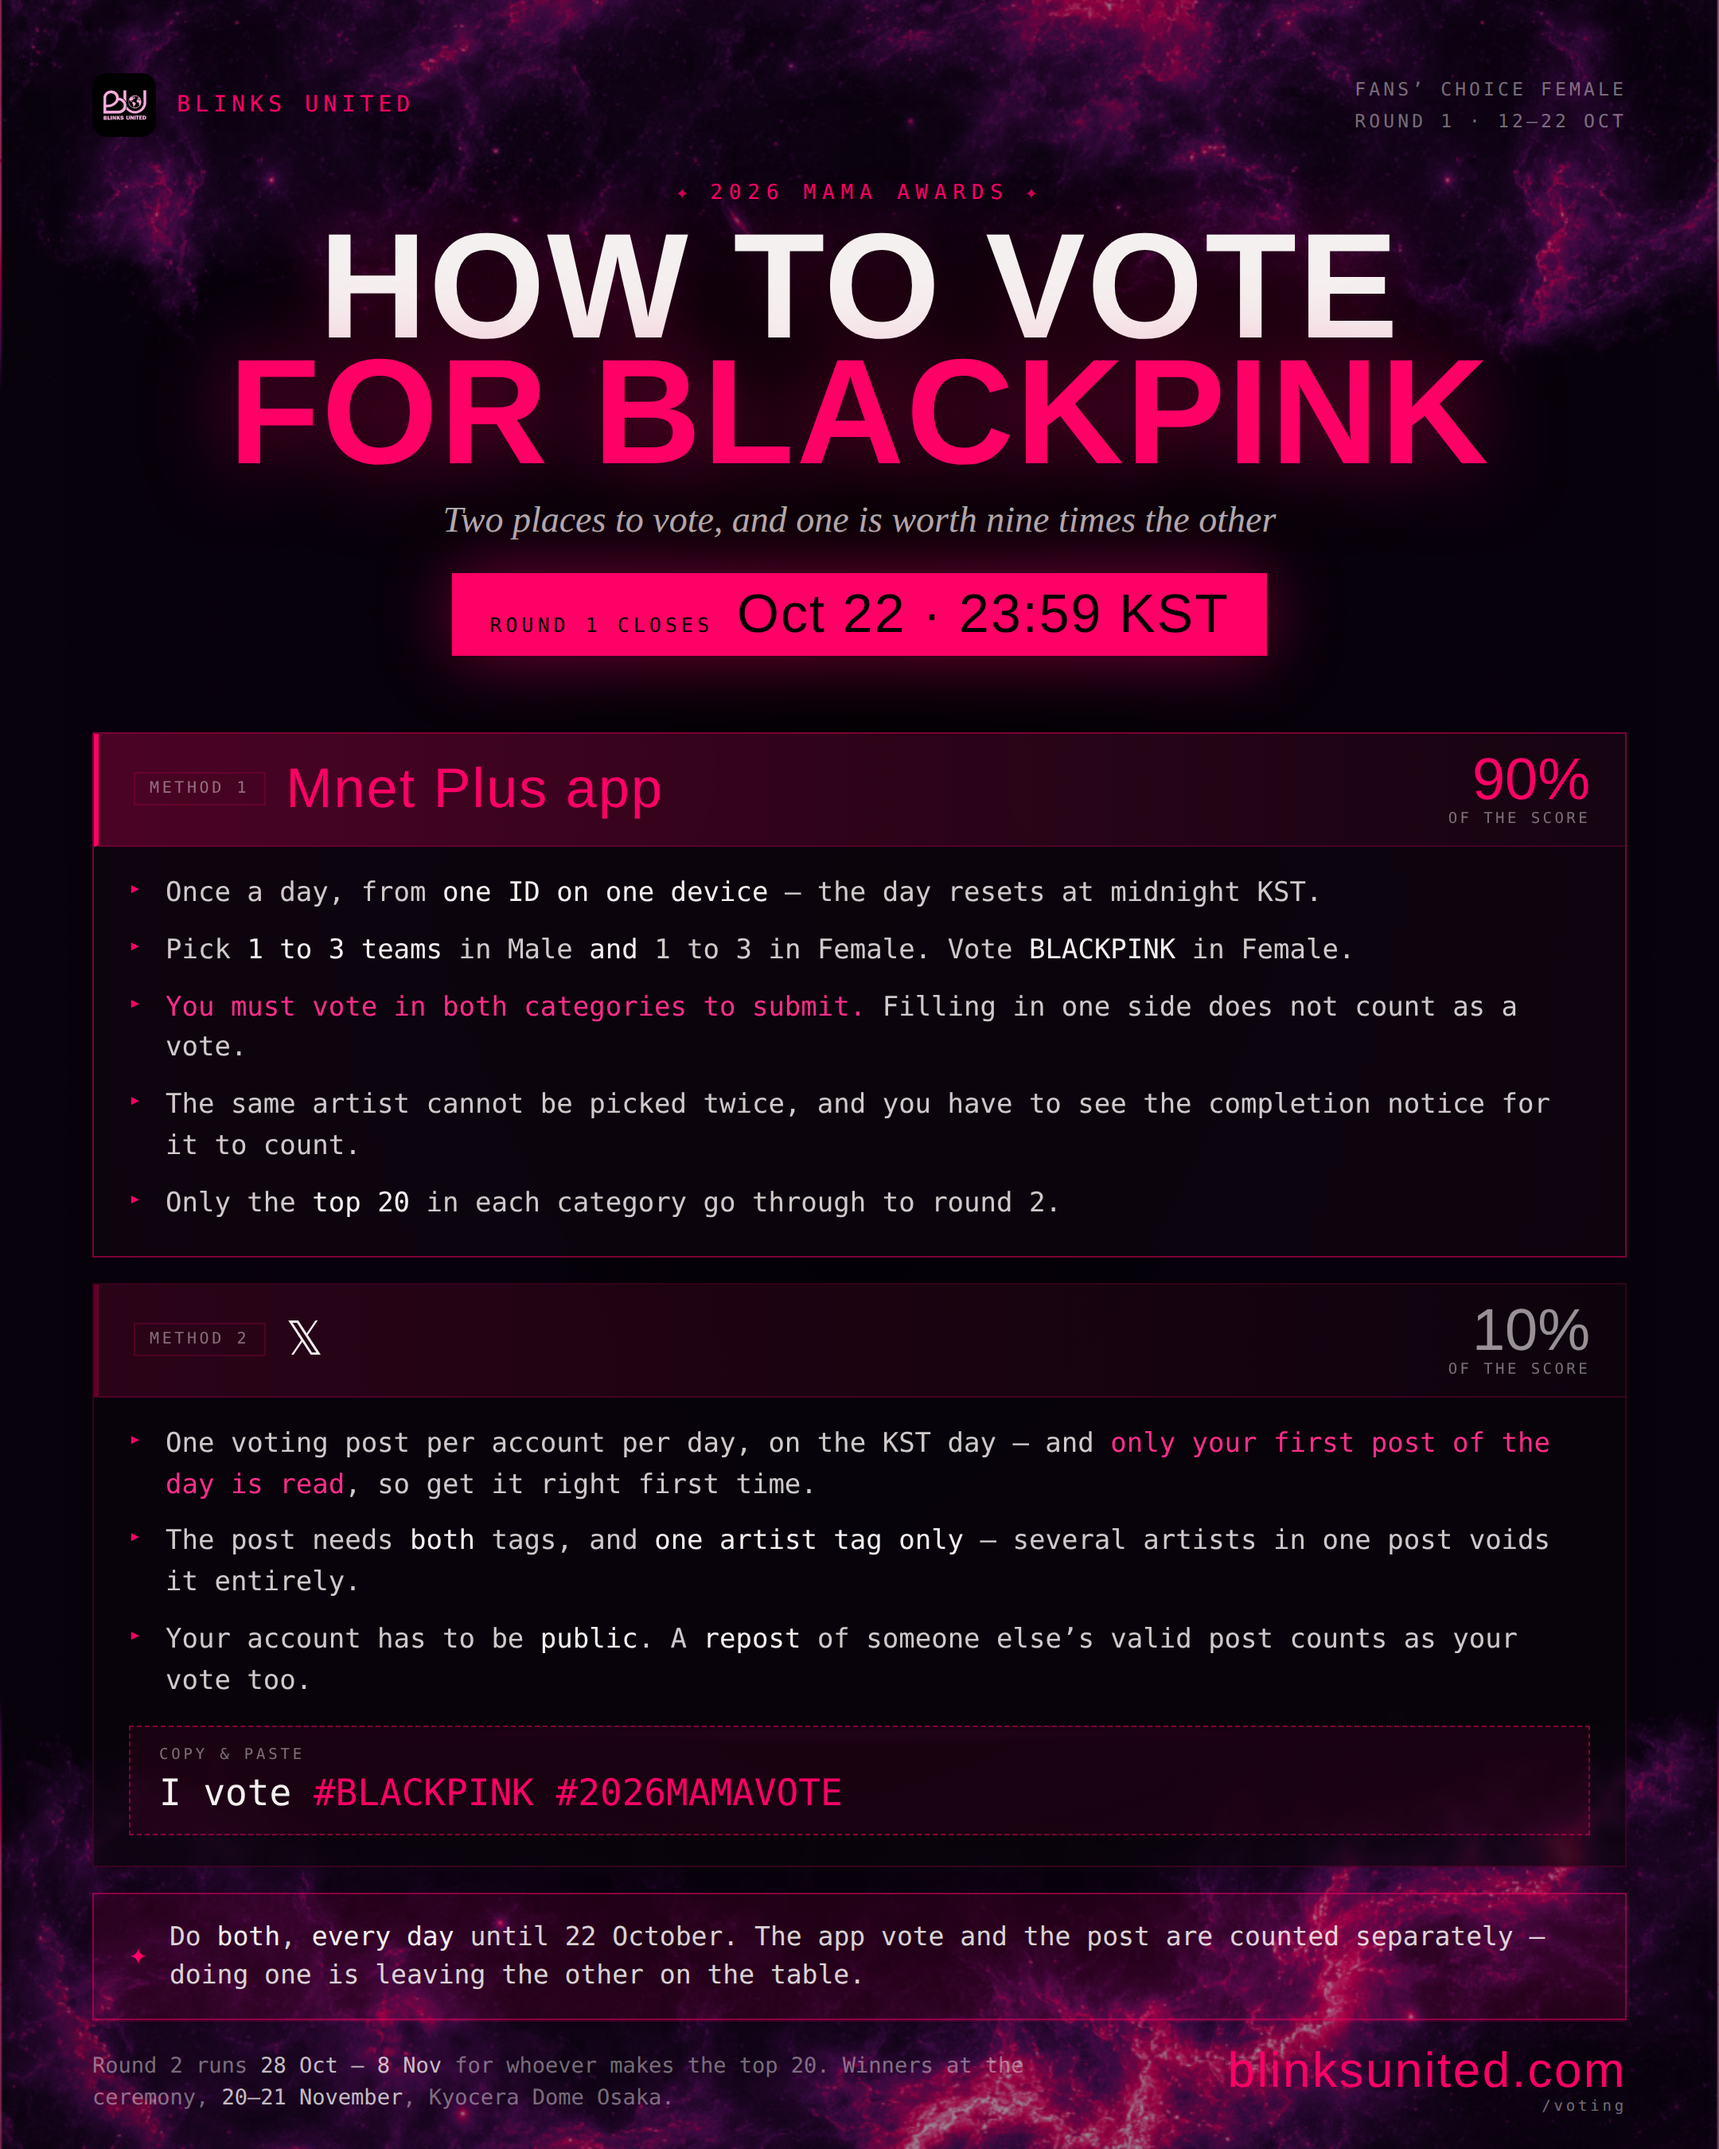
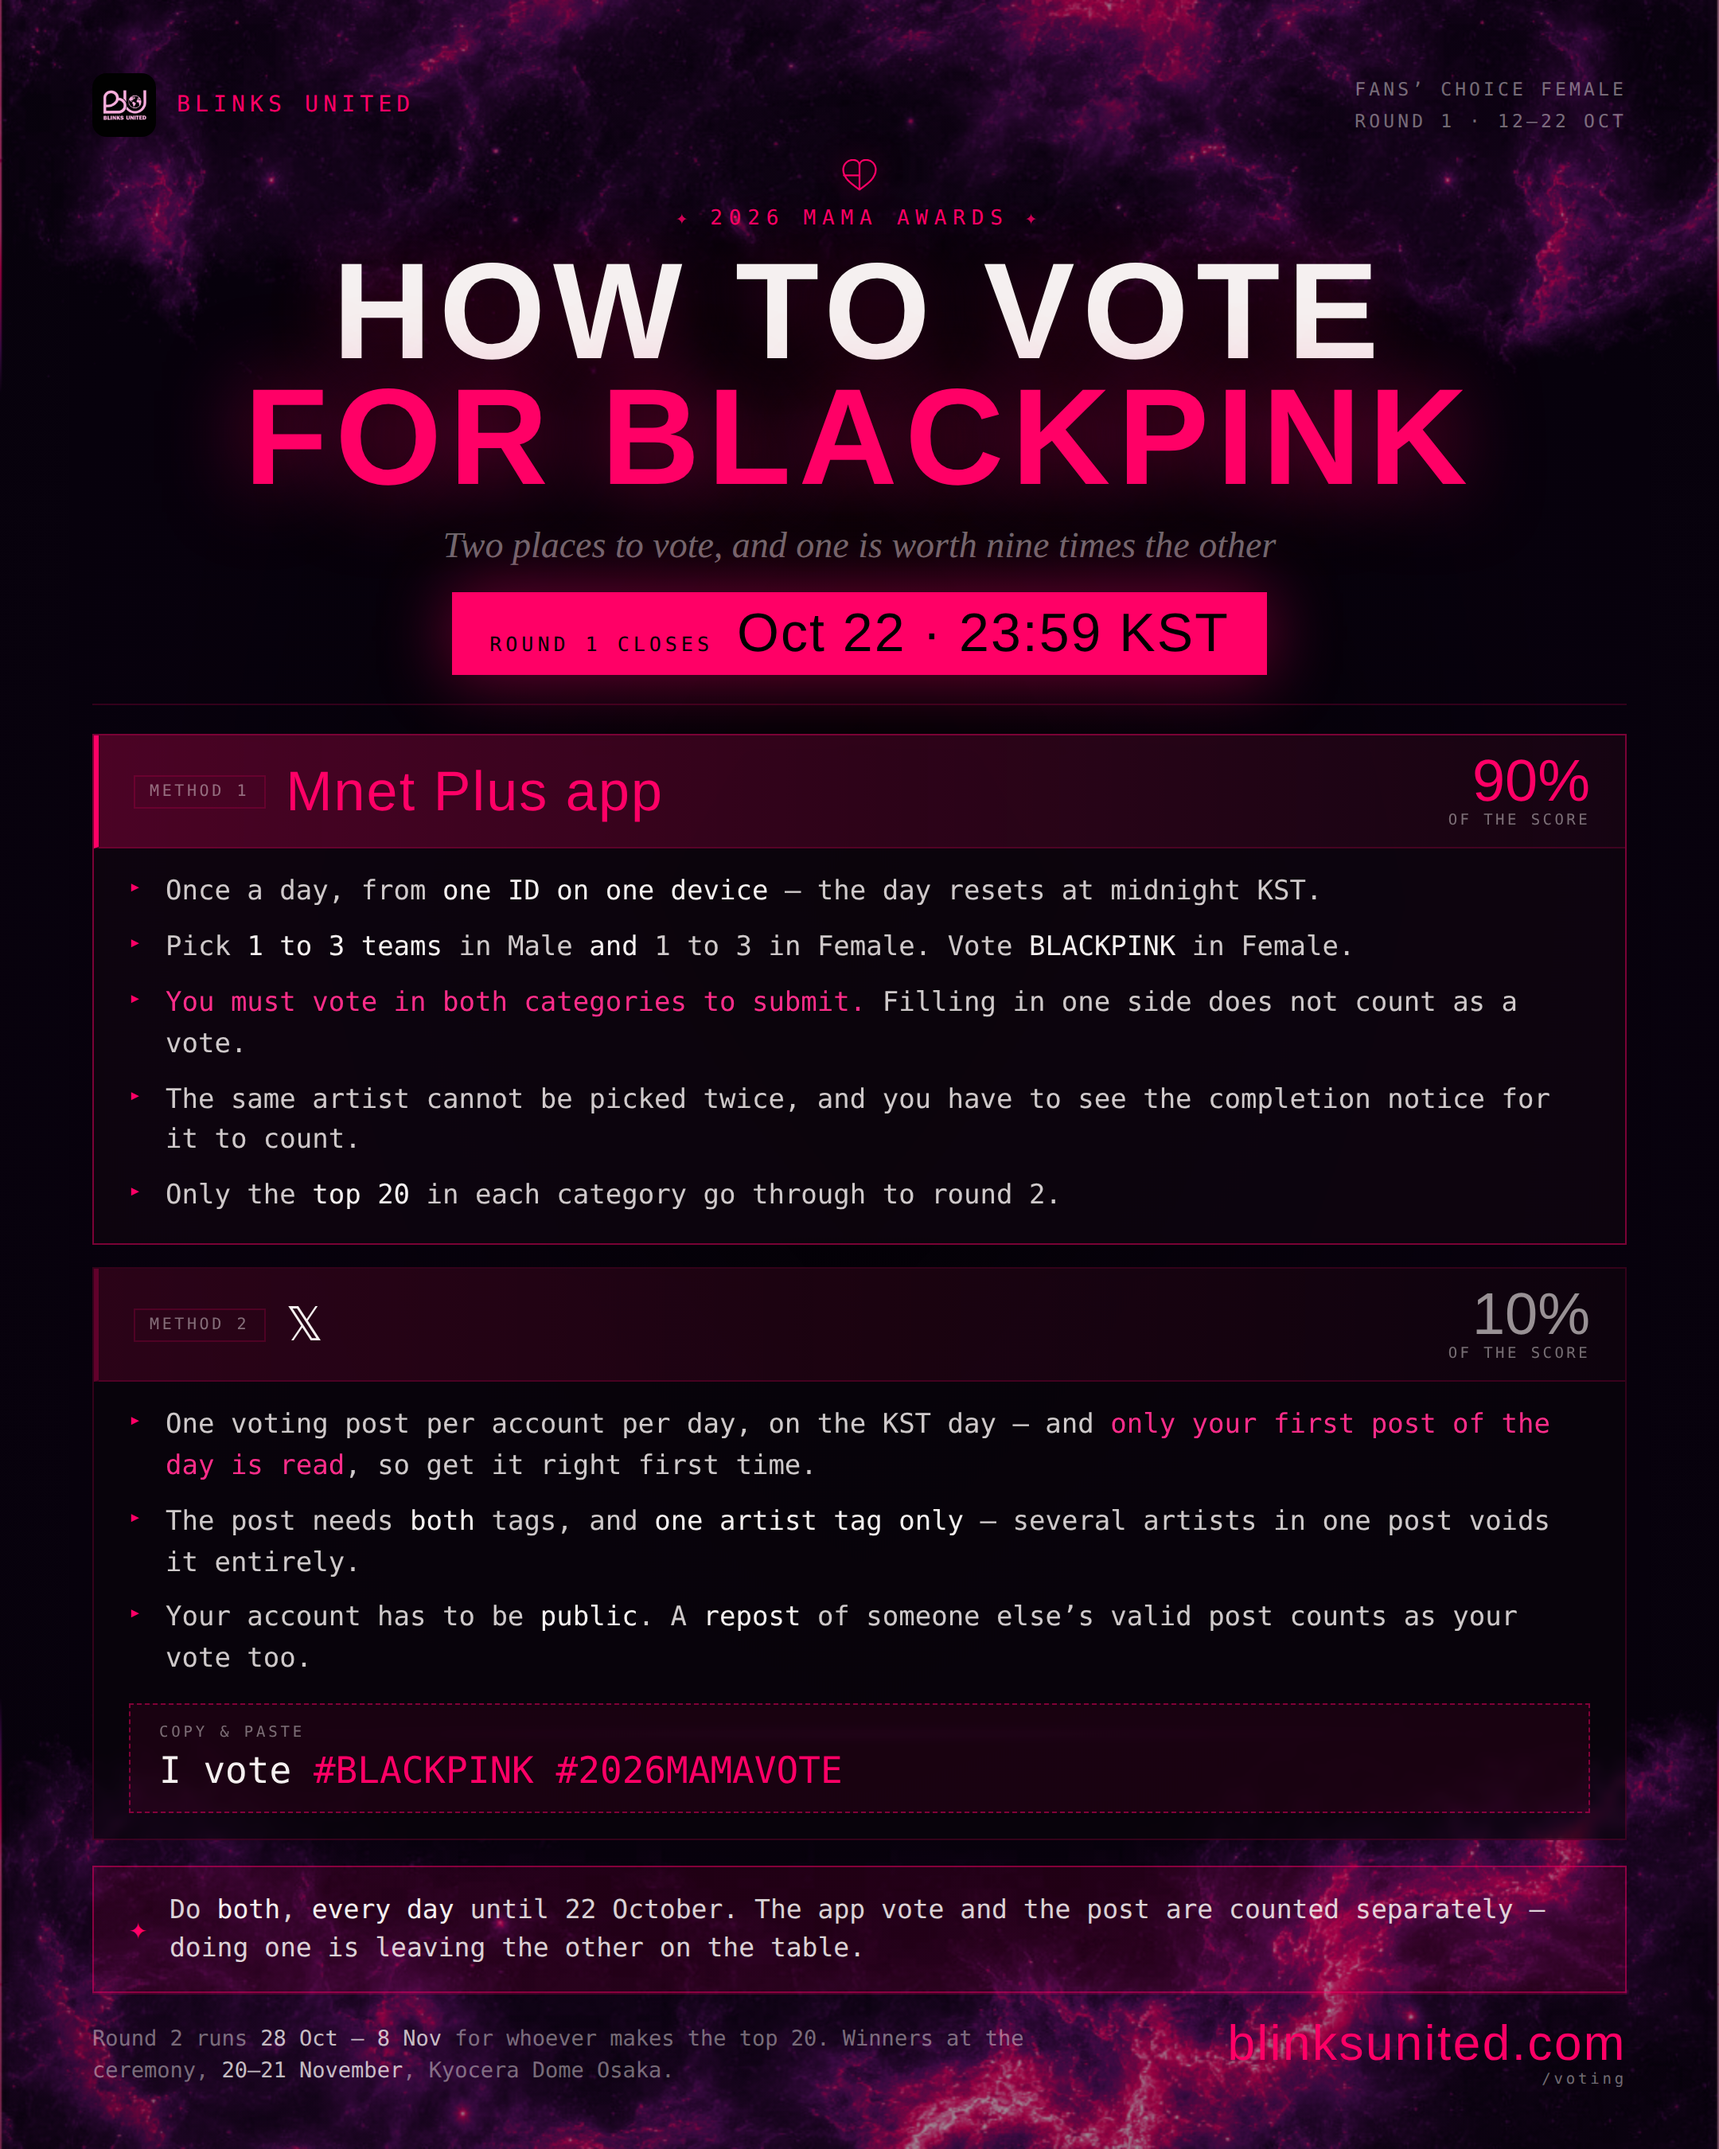
mama guide: the hero is the site's hero, measured not approximated
/streams (.as-title/.as-sub) and /leaderboard (.lb-header-title/.lb-header-sub)
share one recipe and the poster was supposed to be a third copy of it. Read off
the pages rather than eyeballed, two things were wrong:

The headline shipped at 0.012em tracking against the site's 0.05em. Same face,
and still not the site's Bebas — at near-zero spacing it reads as a different
typeface entirely, which is why it looked almost right and never quite.

The subtitle was Bodoni Moda. That IS one of the site's serifs, which is what
made it plausible, but the hero line on both pages is Cormorant Garamond
(--light-serif) at --muted; Bodoni is the display-numeral face. Now swapped,
and Bodoni is no longer loaded at all.

Also brought over: the pink heart gem that sits above the eyebrow on /streams,
and the flat 1px hairline that closes both headers, in place of the gradient
rule I had invented.

Pinned by tests that read the values out of index.html instead of restating
them, so the poster cannot drift from the pages again.

One of those tests failed on my own comment explaining why Bodoni was wrong —
the same over-broad match that bit the i18n.js check earlier in this file. It
now looks for a font-family declaration and a webfont request. The stale
comment it turned up is corrected too.

Claude-Session: https://claude.ai/code/session_01HPbAAWRiDyNszfqpAtqo9o

diff --git a/mama-guide.html b/mama-guide.html
@@ -19,7 +19,7 @@
      STYLE: the galaxy is MAMA's, the colours and the furniture are the site's.
      The hero follows /streams and /leaderboard exactly — a centred mono eyebrow
      between ✦ marks, a two-line Bebas headline with the second line in pink, an
-     italic Bodoni subtitle, then a rule — and the method cards echo the
+     italic Cormorant Garamond subtitle, then a hairline rule — and the cards echo the
      leaderboard's section bars: a pink-tinted strip with a solid pink edge.
      Nothing here invents a look the site does not already have.
 
@@ -34,7 +34,7 @@
 
 <link rel="preconnect" href="https://fonts.googleapis.com">
 <link rel="preconnect" href="https://fonts.gstatic.com" crossorigin>
-<link href="https://fonts.googleapis.com/css2?family=Bebas+Neue&family=Bodoni+Moda:ital,wght@0,400;0,700;0,900;1,400&family=DM+Mono:wght@300;400;500&display=swap" rel="stylesheet">
+<link href="https://fonts.googleapis.com/css2?family=Bebas+Neue&family=Cormorant+Garamond:ital,wght@0,300;0,600;0,700;1,300&family=DM+Mono:wght@300;400;500&display=swap" rel="stylesheet">
 
 <style>
   :root {
@@ -45,7 +45,7 @@
     --border: rgba(255,0,102,0.18);
     --mono: 'DM Mono', monospace;
     --display: 'Bebas Neue', sans-serif;
-    --serif: 'Bodoni Moda', serif;
+    --light-serif: 'Cormorant Garamond', serif;
   }
   *, *::before, *::after { margin: 0; padding: 0; box-sizing: border-box; }
   body {
@@ -101,27 +101,38 @@
   }
 
   /* ── hero, straight off /streams and /leaderboard ───────────────────────── */
-  .hero { text-align: center; margin-top: 28px; }
+  .hero { text-align: center; margin-top: 14px; }
+  .gem {
+    width: 24px; height: 20px; color: var(--pink); margin: 0 auto 10px;
+    display: block; filter: drop-shadow(0 0 8px rgba(255,0,102,0.5));
+  }
   .eyebrow {
     font-family: var(--mono); font-size: 13px; letter-spacing: 0.3em;
     text-transform: uppercase; color: var(--pink); margin-bottom: 12px;
   }
   .eyebrow i { font-style: normal; opacity: 0.8; margin: 0 10px; }
+  /* .lb-header-title / .as-title: the display face at 0.055em tracking on a
+     0.92 line, second line in pink via a span. The tracking is the tell — at
+     the near-zero spacing this had before, it was Bebas but it was not the
+     site's Bebas. */
   h1 {
-    font-family: var(--display); font-size: 94px; line-height: 0.84;
-    letter-spacing: 0.012em; text-transform: uppercase; color: var(--white);
+    font-family: var(--display); font-size: 86px; line-height: 0.92;
+    letter-spacing: 0.055em; text-transform: uppercase; color: var(--white);
     text-shadow: 0 0 44px rgba(255,0,102,0.3);
   }
   h1 em { display: block; font-style: normal; color: var(--pink); text-shadow: 0 0 52px rgba(255,0,102,0.55); }
+  /* .lb-header-sub / .as-sub: Cormorant Garamond italic at --muted. It was
+     Bodoni Moda here, which is the site's OTHER serif — used for display
+     numerals, never for this line. Wrong face, right idea. */
   .sub {
-    margin-top: 15px; font-family: var(--serif); font-style: italic;
-    font-size: 23px; color: rgba(245,240,240,0.72);
+    margin-top: 15px; font-family: var(--light-serif); font-style: italic;
+    font-size: 23px; color: var(--muted);
   }
 
   /* The deadline is the most time-critical fact on the poster, so it is the one
      solid pink block — nothing else competes with it. */
   .deadline {
-    margin: 20px auto 0; display: inline-flex; align-items: baseline; gap: 15px;
+    margin: 16px auto 0; display: inline-flex; align-items: baseline; gap: 15px;
     background: var(--pink); color: #000; padding: 11px 24px 10px;
     box-shadow: 0 0 46px rgba(255,0,102,0.45);
   }
@@ -131,13 +142,11 @@
   }
   .deadline span { font-family: var(--display); font-size: 34px; line-height: 0.9; letter-spacing: 0.03em; }
 
-  .rule {
-    margin: 24px 0 0; height: 1px; border: 0;
-    background: linear-gradient(90deg, transparent, rgba(255,0,102,0.45), transparent);
-  }
+  /* .lb-header / .as-header close with a flat hairline, not a gradient. */
+  .rule { margin: 18px 0 0; height: 0; border: 0; border-top: 1px solid var(--border); }
 
   /* ── the two methods ────────────────────────────────────────────────────── */
-  .methods { margin-top: 24px; display: grid; gap: 16px; }
+  .methods { margin-top: 18px; display: grid; gap: 14px; }
   /* Translucent over the galaxy rather than a flat panel: the sky has to carry
      through, or this is the site's hero with a picture parked behind it. */
   .method {
@@ -170,8 +179,8 @@
     display: block; font-family: var(--mono); font-size: 9.5px;
     letter-spacing: 0.18em; text-transform: uppercase; color: var(--muted); margin-top: 2px;
   }
-  .method-body { padding: 17px 22px 19px; }
-  .method ul { list-style: none; display: grid; gap: 10px; }
+  .method-body { padding: 15px 22px 16px; }
+  .method ul { list-style: none; display: grid; gap: 9px; }
   .method li {
     font-size: 17px; line-height: 1.52; color: rgba(245,240,240,0.84);
     padding-left: 23px; position: relative;
@@ -231,6 +240,7 @@
   </div>
 
   <div class="hero">
+    <svg class="gem" viewBox="-1 -1 52 45" fill="none" stroke="currentColor" stroke-width="2.5" stroke-linecap="round" stroke-linejoin="round" aria-hidden="true"><path d="M25,8 C25,3 21,0 16,0 C8,0 2,6 2,14 C2,26 14,34 25,42 C36,34 48,26 48,14 C48,6 42,0 34,0 C29,0 25,3 25,8Z"/><line x1="25" y1="8" x2="25" y2="42"/><line x1="3" y1="22" x2="25" y2="22"/></svg>
     <div class="eyebrow"><i>✦</i>2026 MAMA Awards<i>✦</i></div>
     <h1>How to vote<em>for BLACKPINK</em></h1>
     <div class="sub">Two places to vote, and one is worth nine times the other</div>
